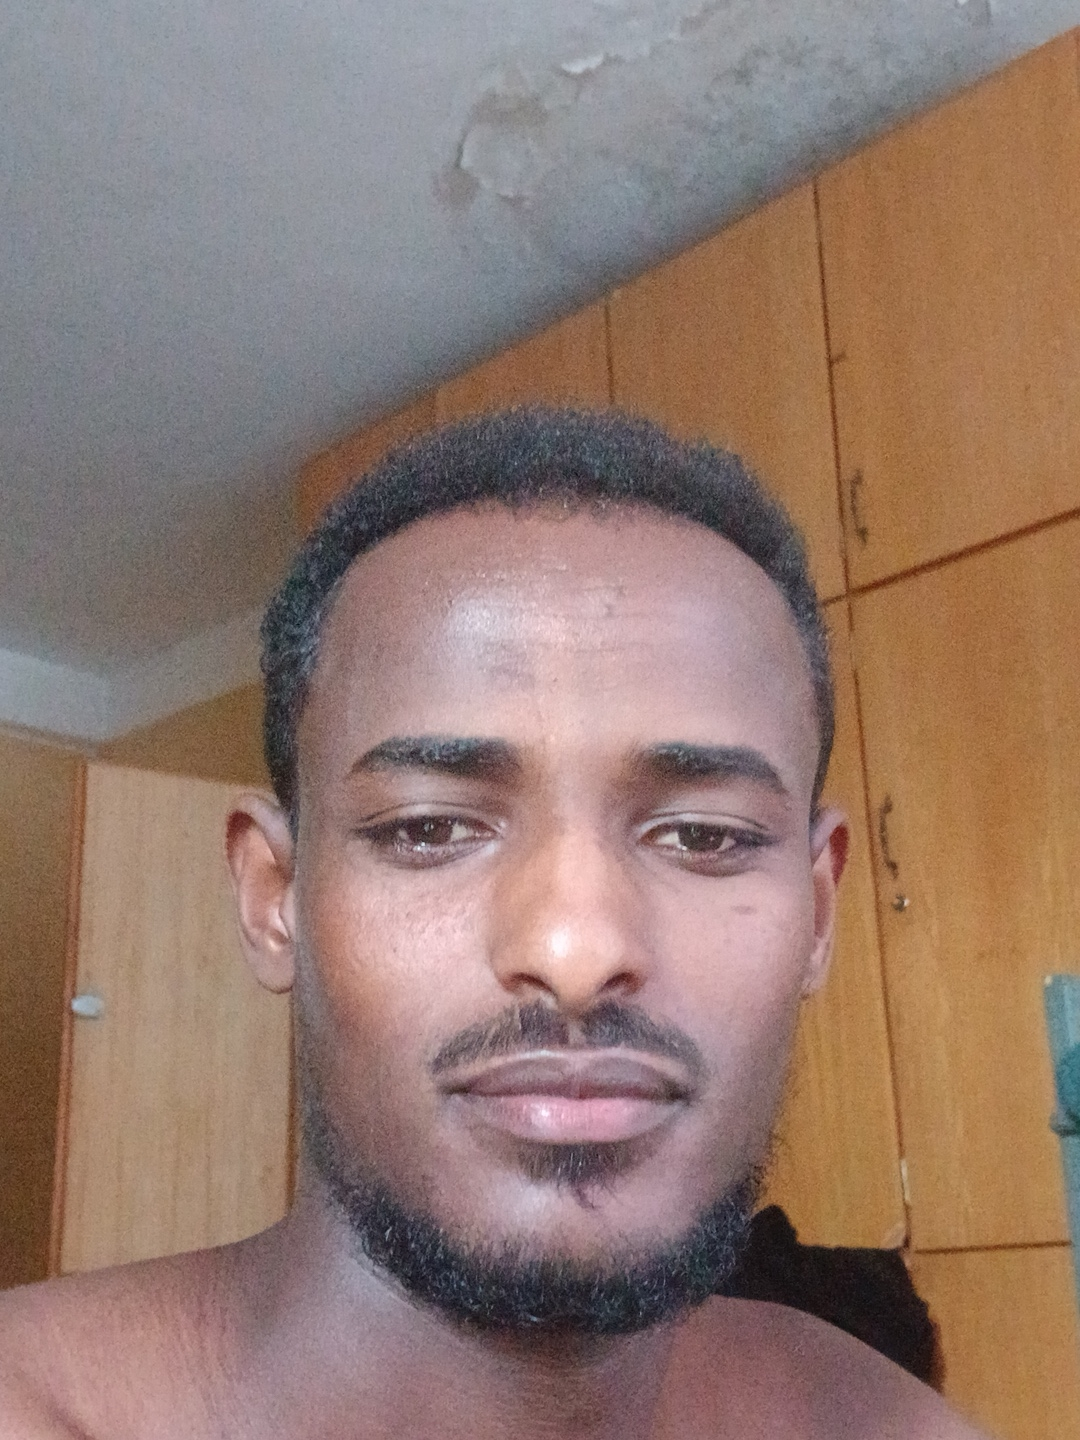
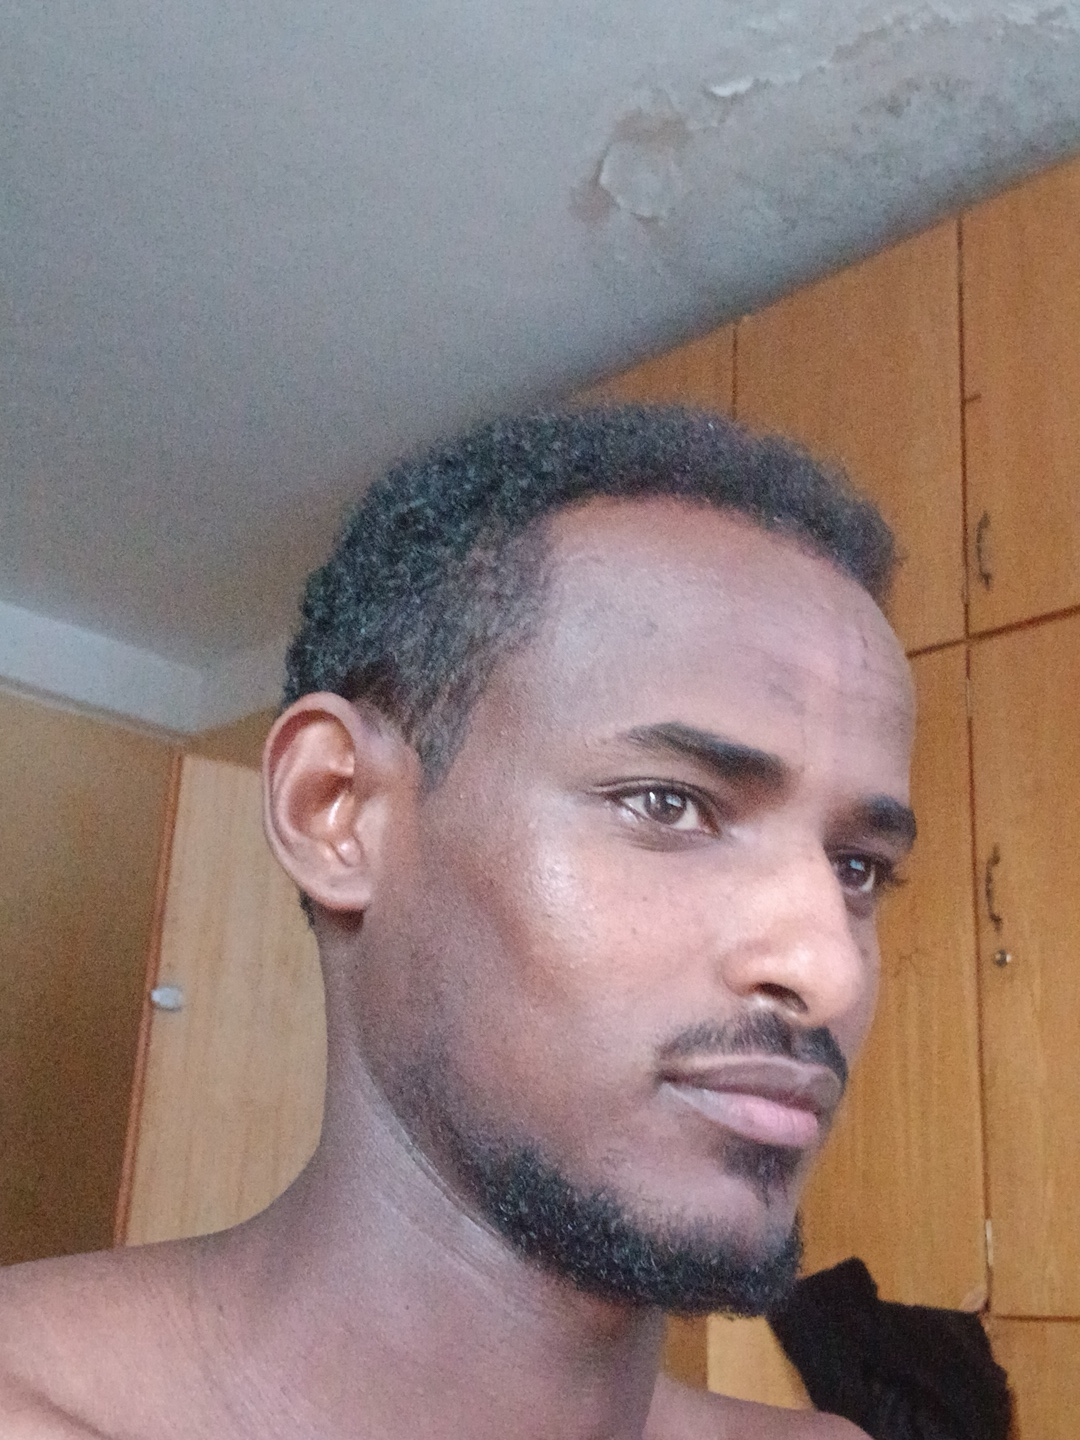
Add customer routes, update dashboard template, and upload user profile images with history tracking
Replit-Commit-Author: Agent

diff --git a/templates/auth/dashboard.html b/templates/auth/dashboard.html
@@ -1937,6 +1937,10 @@ async function uploadProfilePhoto(input) {
             setTimeout(() => { prog.classList.remove('show'); fill.style.width='0%'; }, 1400);
 
             const src = data.photo_src + '?t=' + Date.now();
+            // Prepend old photo to carousel if backend returned history info
+            if (data.hist_id && data.hist_src) {
+                dbPrependHistoryItem(data.hist_id, data.hist_src);
+            }
             dbApplyCurrentPhoto(src);
             showToast('ፎቶ ተቀይሯል! ✅', 'success');
         } else {
@@ -2021,11 +2025,57 @@ async function dbRemovePhoto() {
 /* ═══════════════════════════════════════════════
    HISTORY CAROUSEL
 ═══════════════════════════════════════════════ */
-function dbOpenCurPreview() { /* just a visual click on avatar — do nothing for now */ }
+function dbOpenCurPreview() {
+    const img = document.getElementById('dbTgAvatarImg');
+    if (!img) return; // no photo set — nothing to preview
+    document.getElementById('dbHistImg').src = img.src;
+    // Hide "Set as Profile" button for the current photo preview
+    const setBtn = document.getElementById('dbHistSetBtn');
+    if (setBtn) setBtn.style.display = 'none';
+    _dbActiveHistId = null; // current photo, not history
+    document.getElementById('dbHistModal').classList.add('open');
+    document.body.style.overflow = 'hidden';
+}
+
+function dbPrependHistoryItem(histId, histSrc) {
+    const car = document.getElementById('dbTgCar');
+    if (!car) return;
+    const addCard = car.querySelector('.db-tg-add');
+
+    const item = document.createElement('div');
+    item.className = 'db-tg-car-item';
+    item.dataset.histId = histId;
+    item.dataset.src = histSrc;
+    item.style.opacity = '0';
+    item.style.transform = 'scale(.7)';
+    item.innerHTML = `
+        <div class="db-tg-thumb" onclick="dbOpenHistPreview(${histId}, '${histSrc}')">
+            <img src="${histSrc}" alt="Previous photo" loading="lazy">
+        </div>
+        <div class="db-tg-del" onclick="dbDeleteHistPhoto(event, ${histId})" title="Delete">✕</div>`;
+
+    // Insert right after the + card
+    if (addCard && addCard.nextSibling) {
+        car.insertBefore(item, addCard.nextSibling);
+    } else {
+        car.appendChild(item);
+    }
+    // Animate in
+    requestAnimationFrame(() => {
+        item.style.transition = 'opacity .3s, transform .3s';
+        item.style.opacity = '1';
+        item.style.transform = 'scale(1)';
+    });
+    // Show label
+    const lbl = document.getElementById('dbCarLbl');
+    if (lbl) lbl.style.display = '';
+}
 
 function dbOpenHistPreview(histId, src) {
     _dbActiveHistId = histId;
     document.getElementById('dbHistImg').src = src;
+    const setBtn = document.getElementById('dbHistSetBtn');
+    if (setBtn) setBtn.style.display = ''; // restore for history items
     document.getElementById('dbHistModal').classList.add('open');
     document.body.style.overflow = 'hidden';
 }

diff --git a/routes/customer_routes.py b/routes/customer_routes.py
@@ -902,6 +902,8 @@ def upload_profile_photo():
     os.makedirs(hist_dir, exist_ok=True)
 
     uid = session['user_id']
+    saved_hist_id  = None
+    saved_hist_rel = None
 
     # Move existing current photo to history before replacing it
     try:
@@ -920,9 +922,12 @@ def upload_profile_photo():
                 import shutil
                 shutil.copy2(old_abs, hist_abs)
                 cursor.execute(
-                    "INSERT INTO user_photo_history (user_id, photo_path) VALUES (%s, %s)",
+                    "INSERT INTO user_photo_history (user_id, photo_path) VALUES (%s, %s) RETURNING id",
                     (uid, hist_rel)
                 )
+                inserted = cursor.fetchone()
+                saved_hist_id   = inserted['id'] if inserted else None
+                saved_hist_rel  = hist_rel
                 conn.commit()
                 # Trim history to 20 items
                 cursor.execute("""
@@ -965,8 +970,12 @@ def upload_profile_photo():
         )
         conn.commit()
         session['user_photo'] = rel_path
-        return jsonify({'success': True, 'photo_url': rel_path,
-                        'photo_src': f"/static/{rel_path}"})
+        resp = {'success': True, 'photo_url': rel_path,
+                'photo_src': f"/static/{rel_path}"}
+        if saved_hist_id:
+            resp['hist_id']  = saved_hist_id
+            resp['hist_src'] = f"/static/{saved_hist_rel}"
+        return jsonify(resp)
     except Exception as e:
         try:
             os.remove(filepath)